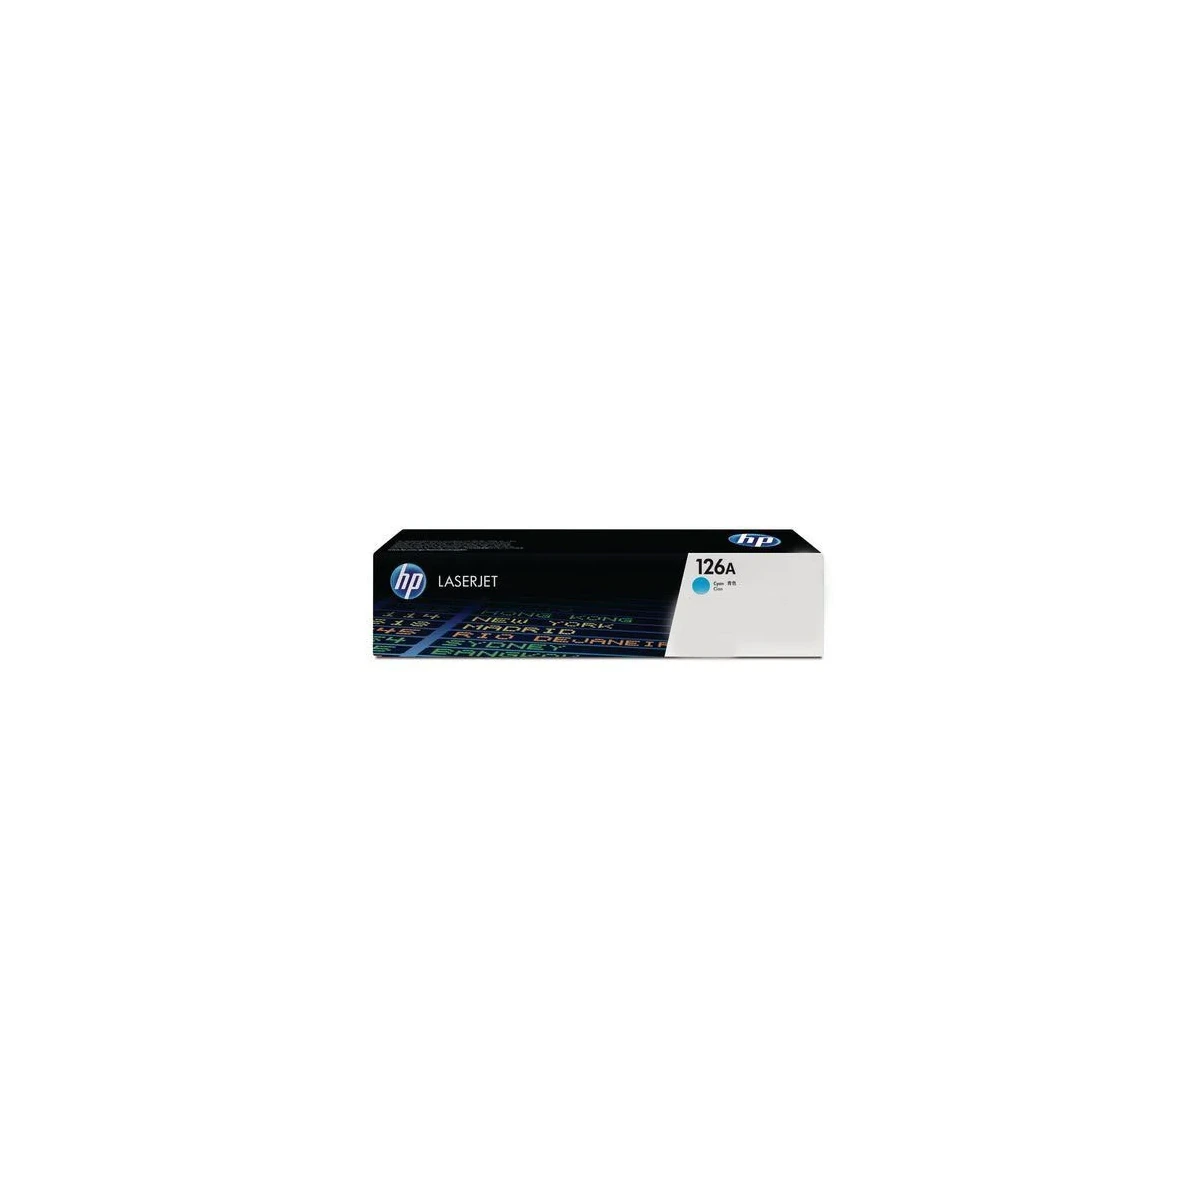
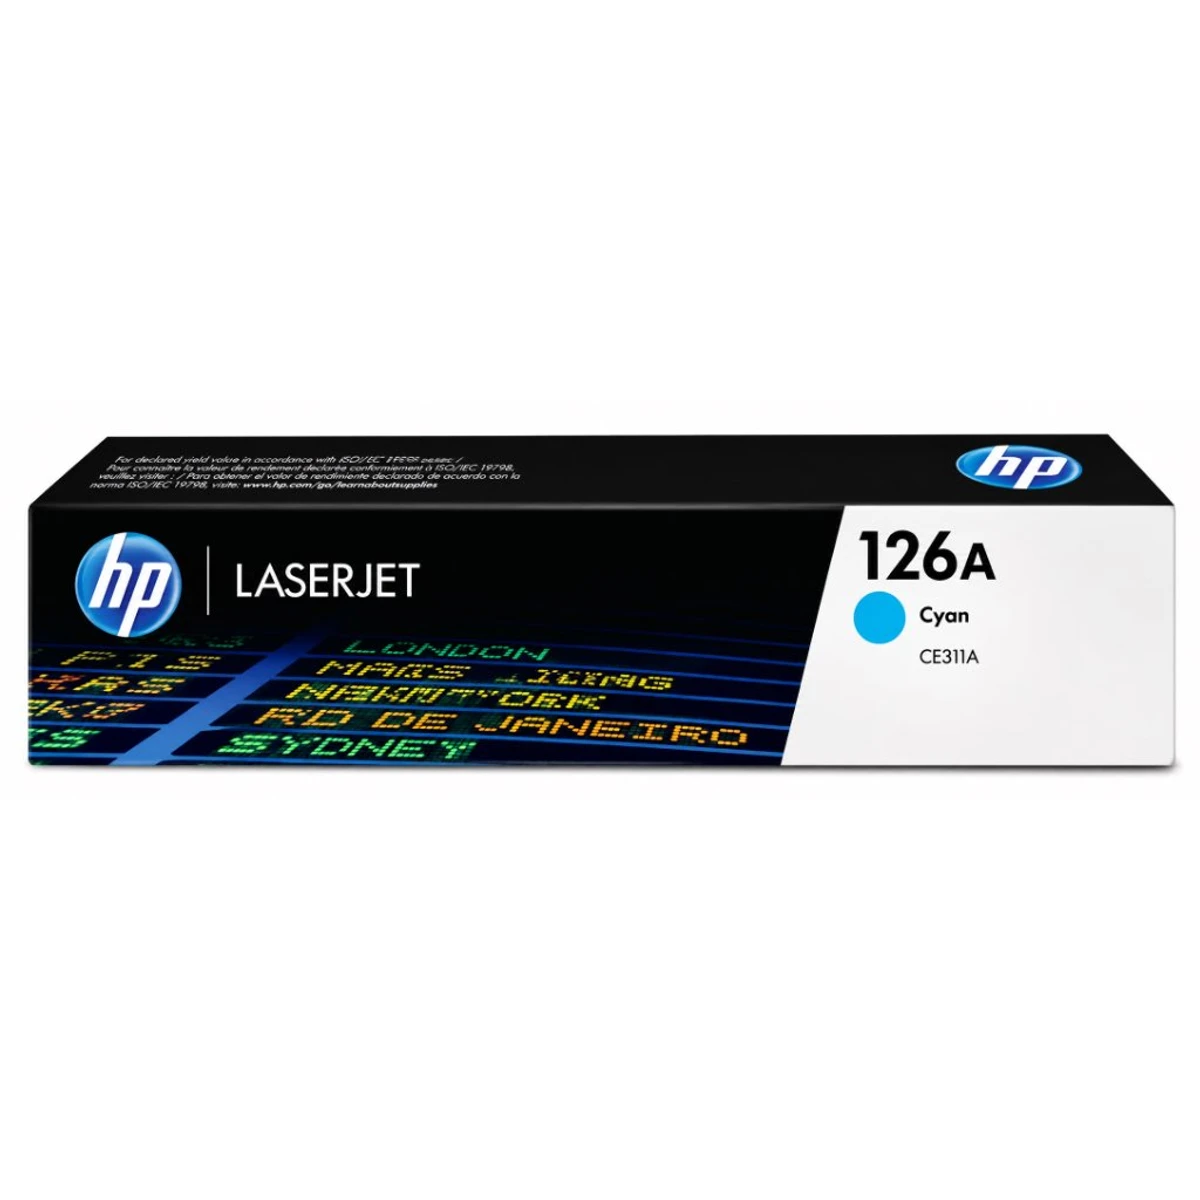
fix(images): replace product images for 9 cartridge SKUs and bump image version to v29

Changed region(s): [[0.0, 0.3392, 0.9867, 0.6475]]

diff --git a/src/lib/utils/image.ts b/src/lib/utils/image.ts
@@ -3,7 +3,7 @@
  * Appends a version query string (?v=...) to all internal product image URLs
  * so that updated images immediately bypass stale edge and browser caches upon deployment.
  */
-export const CATALOG_IMAGE_VERSION = '20261113_v28_newspaper_stand_replacement';
+export const CATALOG_IMAGE_VERSION = '20261113_v29_batch_9_toner_cartridges';
 
 export function getVersionedImageUrl(url: string | null | undefined): string {
   if (!url) return `/assets/placeholder-product.svg?v=${CATALOG_IMAGE_VERSION}`;
